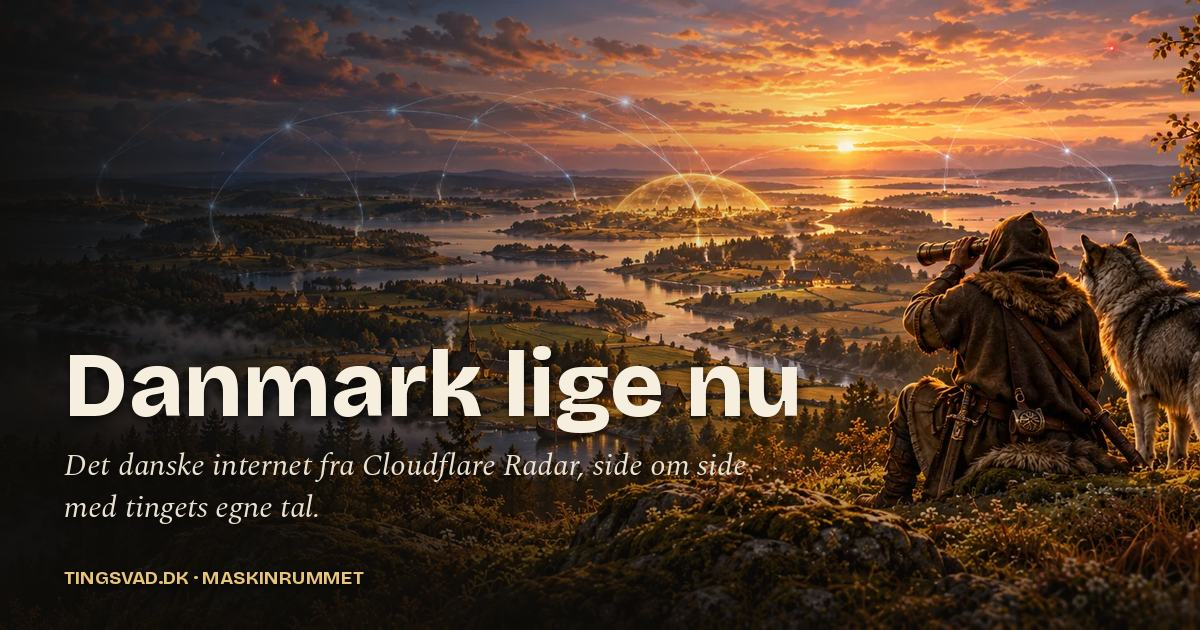
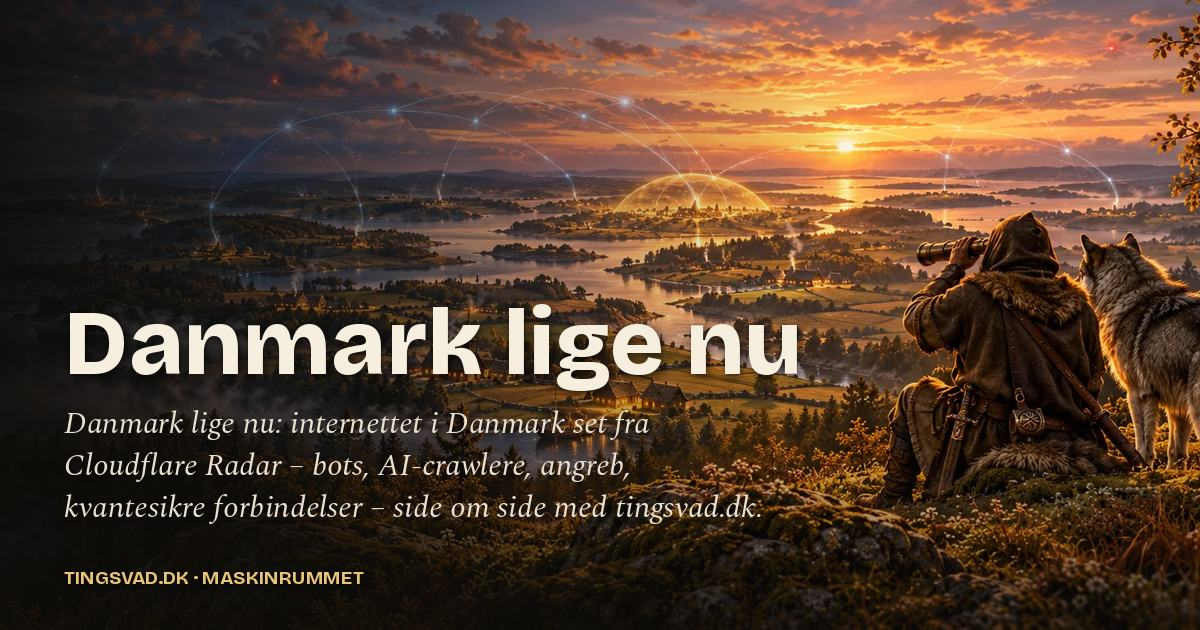
AP6: delingsbilleder genereret efter nye titler og beskrivelser
build-og.py kørt med fonte fra @fontsource (og-fonts/ er gitignored).

Changed region(s): [[0.0308, 0.4825, 0.6783, 0.6937], [0.0308, 0.7841, 0.6475, 0.8444], [0.0308, 0.7238, 0.6167, 0.754]]

diff --git a/en/machine-room/archive-cabinet/index.html b/en/machine-room/archive-cabinet/index.html
@@ -10,7 +10,7 @@
 <meta property="og:image" content="https://tingsvad.dk/assets/og/en-machine-room-archive-cabinet.jpg">
 <meta property="og:image:width" content="1200">
 <meta property="og:image:height" content="630">
-<meta property="og:image:alt" content="The European archive cabinet – D1, KV, R2 and Durable Objects locked to the EU. Measured while you watch.">
+<meta property="og:image:alt" content="The European archive cabinet – The European archive cabinet: a live demonstration of data kept only in the EU, with D1, KV, R2 and a Durable Object locked to the EU jurisdiction.">
 <meta property="og:type" content="website">
 <meta property="og:url" content="https://tingsvad.dk/en/machine-room/archive-cabinet/">
 <meta property="og:locale" content="en_GB">

diff --git a/en/machine-room/denmark/index.html b/en/machine-room/denmark/index.html
@@ -10,7 +10,7 @@
 <meta property="og:image" content="https://tingsvad.dk/assets/og/en-machine-room-denmark.jpg">
 <meta property="og:image:width" content="1200">
 <meta property="og:image:height" content="630">
-<meta property="og:image:alt" content="Denmark right now – The Danish internet from Cloudflare Radar, side by side with the thing’s own figures.">
+<meta property="og:image:alt" content="Denmark right now – Denmark right now: the Danish internet seen from Cloudflare Radar – bots, AI crawlers, attacks, quantum-safe connections – next to tingsvad.dk.">
 <meta property="og:type" content="website">
 <meta property="og:url" content="https://tingsvad.dk/en/machine-room/denmark/">
 <meta property="og:locale" content="en_GB">

diff --git a/maskinrummet/arkivskabet/index.html b/maskinrummet/arkivskabet/index.html
@@ -10,7 +10,7 @@
 <meta property="og:image" content="https://tingsvad.dk/assets/og/maskinrummet-arkivskabet.jpg">
 <meta property="og:image:width" content="1200">
 <meta property="og:image:height" content="630">
-<meta property="og:image:alt" content="Det europæiske arkivskab – D1, KV, R2 og Durable Objects låst til EU. Målt, mens du ser på det.">
+<meta property="og:image:alt" content="Det europæiske arkivskab – Det europæiske arkivskab: en live demonstration af data, der kun gemmes i EU, med D1, KV, R2 og et Durable Object låst til EU-jurisdiktionen.">
 <meta property="og:type" content="website">
 <meta property="og:url" content="https://tingsvad.dk/maskinrummet/arkivskabet/">
 <meta property="og:locale" content="da_DK">

diff --git a/maskinrummet/noedoevelser/index.html b/maskinrummet/noedoevelser/index.html
@@ -10,7 +10,7 @@
 <meta property="og:image" content="https://tingsvad.dk/assets/og/maskinrummet-noedoevelser.jpg">
 <meta property="og:image:width" content="1200">
 <meta property="og:image:height" content="630">
-<meta property="og:image:alt" content="Nødøvelserne – Gudrun øver det, der går galt. Med tov, løst stik og falske maskiner.">
+<meta property="og:image:alt" content="Nødøvelserne – Nødøvelser: tydeligt mærkede simulationer af AI-timeout, dobbeltlevering i en kø og mistet forbindelse – kørt mod falske tjenester med den rigtige kode.">
 <meta property="og:type" content="website">
 <meta property="og:url" content="https://tingsvad.dk/maskinrummet/noedoevelser/">
 <meta property="og:locale" content="da_DK">

diff --git a/en/history/index.html b/en/history/index.html
@@ -10,7 +10,7 @@
 <meta property="og:image" content="https://tingsvad.dk/assets/og/en-history.jpg">
 <meta property="og:image:width" content="1200">
 <meta property="og:image:height" content="630">
-<meta property="og:image:alt" content="History – The place, those present and what was never decided.">
+<meta property="og:image:alt" content="The history of Tingsvad – the ford, the seven on the stones and Ragnhild – The history of Tingsvad: the ford, the seven on the stones, Ragnhild on the bank, the legends and the network. Fiction with fact boxes and sources.">
 <meta property="og:type" content="website">
 <meta property="og:url" content="https://tingsvad.dk/en/history/">
 <meta property="og:locale" content="en_GB">

diff --git a/en/machine-room/the-door/index.html b/en/machine-room/the-door/index.html
@@ -10,7 +10,7 @@
 <meta property="og:image" content="https://tingsvad.dk/assets/og/en-machine-room-the-door.jpg">
 <meta property="og:image:width" content="1200">
 <meta property="og:image:height" content="630">
-<meta property="og:image:alt" content="The thing’s door – Zero Trust with a real door. Knock, and watch Cloudflare Access say no.">
+<meta property="og:image:alt" content="The thing’s door – The thing’s door: Cloudflare Zero Trust explained with a real door. Knock on the administration and see what Access does before the code wakes.">
 <meta property="og:type" content="website">
 <meta property="og:url" content="https://tingsvad.dk/en/machine-room/the-door/">
 <meta property="og:locale" content="en_GB">

diff --git a/maskinrummet/danmark/index.html b/maskinrummet/danmark/index.html
@@ -10,7 +10,7 @@
 <meta property="og:image" content="https://tingsvad.dk/assets/og/maskinrummet-danmark.jpg">
 <meta property="og:image:width" content="1200">
 <meta property="og:image:height" content="630">
-<meta property="og:image:alt" content="Danmark lige nu – Det danske internet fra Cloudflare Radar, side om side med tingets egne tal.">
+<meta property="og:image:alt" content="Danmark lige nu – Danmark lige nu: internettet i Danmark set fra Cloudflare Radar – bots, AI-crawlere, angreb, kvantesikre forbindelser – side om side med tingsvad.dk.">
 <meta property="og:type" content="website">
 <meta property="og:url" content="https://tingsvad.dk/maskinrummet/danmark/">
 <meta property="og:locale" content="da_DK">

diff --git a/en/machine-room/crawlers/index.html b/en/machine-room/crawlers/index.html
@@ -10,7 +10,7 @@
 <meta property="og:image" content="https://tingsvad.dk/assets/og/en-machine-room-crawlers.jpg">
 <meta property="og:image:width" content="1200">
 <meta property="og:image:height" content="630">
-<meta property="og:image:alt" content="The crawlers – Search engines, AI crawlers and assistants on tingsvad.dk. Counted every hour.">
+<meta property="og:image:alt" content="The crawlers – The crawlers: which search engines and AI bots visit tingsvad.dk, what they read, who finds llms.txt – and who only pretends to be a bot. Hourly.">
 <meta property="og:type" content="website">
 <meta property="og:url" content="https://tingsvad.dk/en/machine-room/crawlers/">
 <meta property="og:locale" content="en_GB">

diff --git a/maskinrummet/crawlerne/index.html b/maskinrummet/crawlerne/index.html
@@ -10,7 +10,7 @@
 <meta property="og:image" content="https://tingsvad.dk/assets/og/maskinrummet-crawlerne.jpg">
 <meta property="og:image:width" content="1200">
 <meta property="og:image:height" content="630">
-<meta property="og:image:alt" content="Crawlerne – Søgemaskiner, AI-crawlere og assistenter på tingsvad.dk. Talt hver time.">
+<meta property="og:image:alt" content="Crawlerne – Crawlerne: hvilke søgemaskiner og AI-bots besøger tingsvad.dk, hvad de læser, hvem der finder llms.txt – og hvem der kun udgiver sig for at være en bot.">
 <meta property="og:type" content="website">
 <meta property="og:url" content="https://tingsvad.dk/maskinrummet/crawlerne/">
 <meta property="og:locale" content="da_DK">

diff --git a/maskinrummet/hastigheden/index.html b/maskinrummet/hastigheden/index.html
@@ -10,7 +10,7 @@
 <meta property="og:image" content="https://tingsvad.dk/assets/og/maskinrummet-hastigheden.jpg">
 <meta property="og:image:width" content="1200">
 <meta property="og:image:height" content="630">
-<meta property="og:image:alt" content="Hastigheden – Core Web Vitals og sideindlæsning hos rigtige gæster. Målt, ikke gættet.">
+<meta property="og:image:alt" content="Hastigheden – Hastigheden på tingsvad.dk: Core Web Vitals og sideindlæsning målt hos rigtige gæster med Cloudflare Web Analytics, side for side. Hver time.">
 <meta property="og:type" content="website">
 <meta property="og:url" content="https://tingsvad.dk/maskinrummet/hastigheden/">
 <meta property="og:locale" content="da_DK">

diff --git a/oplevelser/sagsmappen/index.html b/oplevelser/sagsmappen/index.html
@@ -10,7 +10,7 @@
 <meta property="og:image" content="https://tingsvad.dk/assets/og/oplevelser-sagsmappen.jpg">
 <meta property="og:image:width" content="1200">
 <meta property="og:image:height" content="630">
-<meta property="og:image:alt" content="Sagsmappen – Alt, tinget har på dig, samlet i én mappe. Ravnen bringer den som PDF.">
+<meta property="og:image:alt" content="Sagsmappen – Sagsmappen: dine fund, dit kønummer og din stolansøgning samlet ét sted – og sendt som PDF med Ravnecentralen (Queues, Workflows, Browser Run, R2).">
 <meta property="og:type" content="website">
 <meta property="og:url" content="https://tingsvad.dk/oplevelser/sagsmappen/">
 <meta property="og:locale" content="da_DK">

diff --git a/en/machine-room/map/index.html b/en/machine-room/map/index.html
@@ -10,7 +10,7 @@
 <meta property="og:image" content="https://tingsvad.dk/assets/og/en-machine-room-map.jpg">
 <meta property="og:image:width" content="1200">
 <meta property="og:image:height" content="630">
-<meta property="og:image:alt" content="The infrastructure map – The whole thing, as it answers right now. Measured, not drawn.">
+<meta property="og:image:alt" content="The infrastructure map – The infrastructure map: which Cloudflare data centre answered you, where data and Durable Objects live, and response times per binding.">
 <meta property="og:type" content="website">
 <meta property="og:url" content="https://tingsvad.dk/en/machine-room/map/">
 <meta property="og:locale" content="en_GB">
